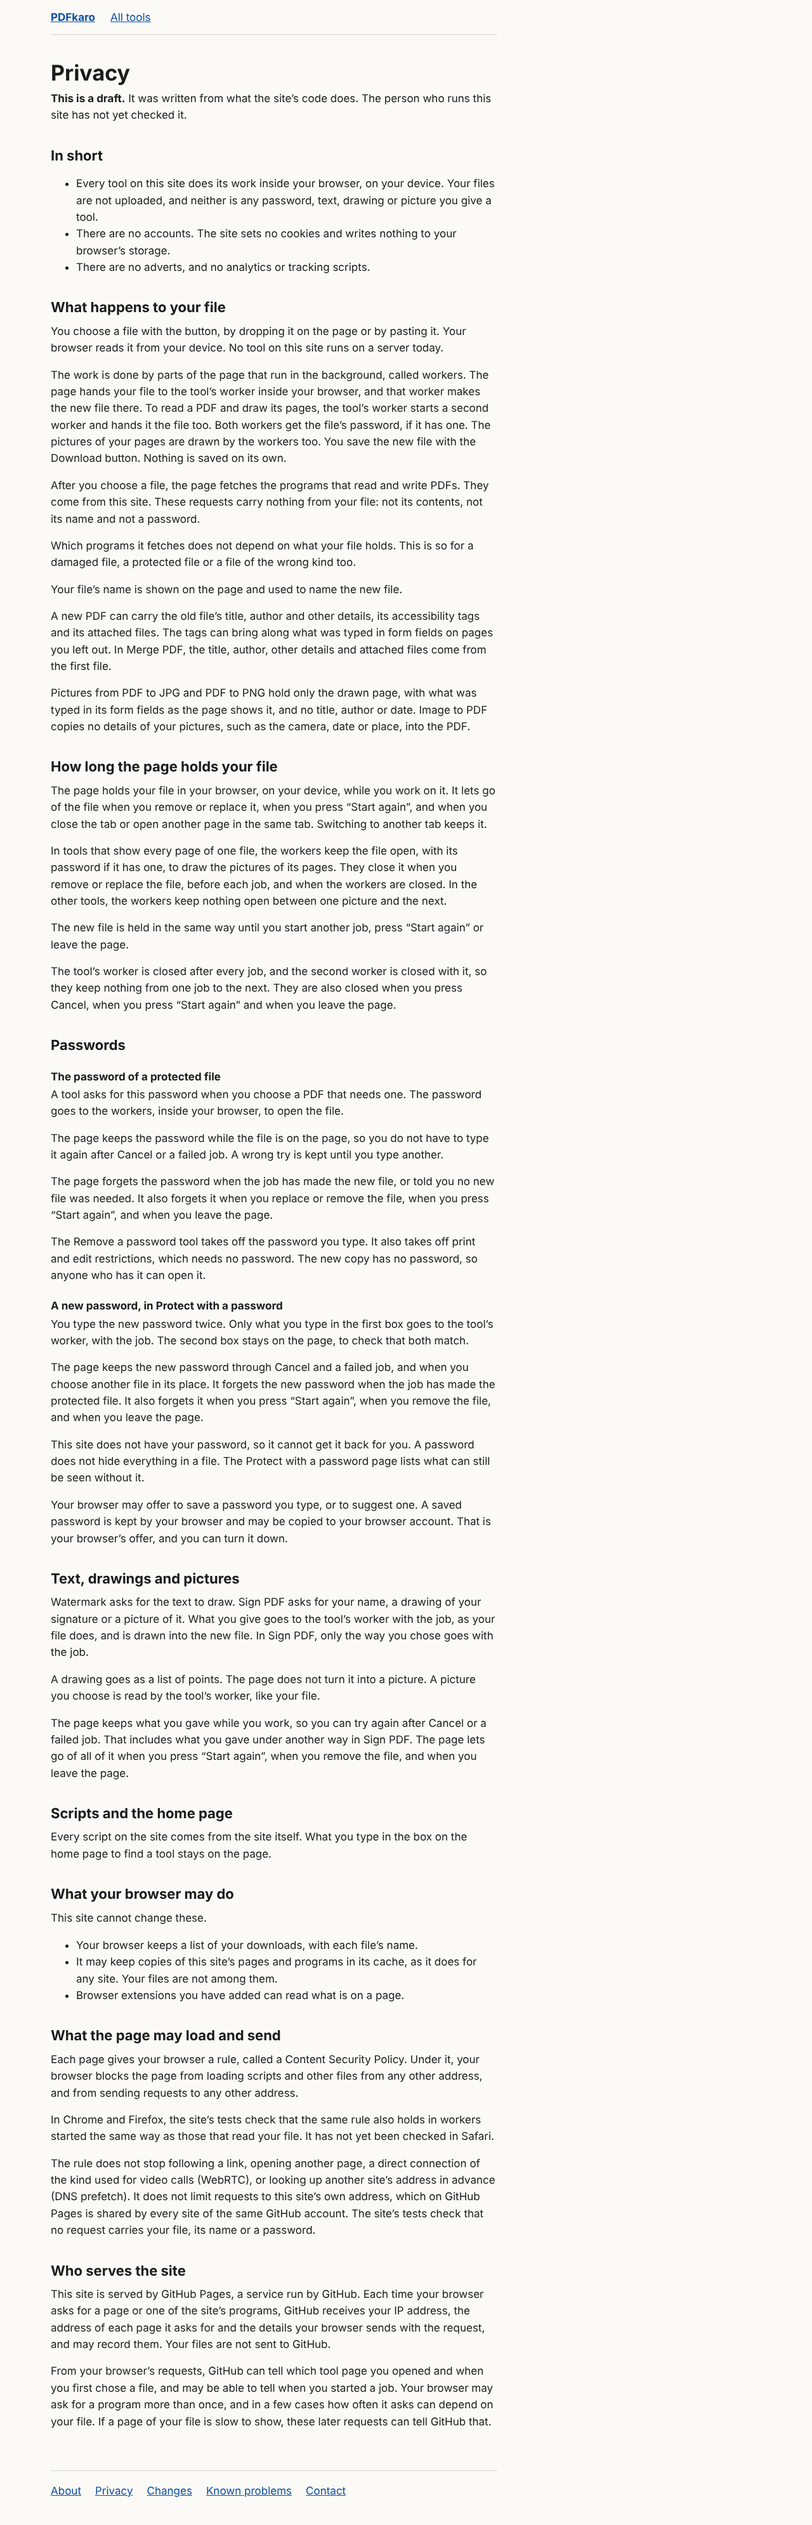
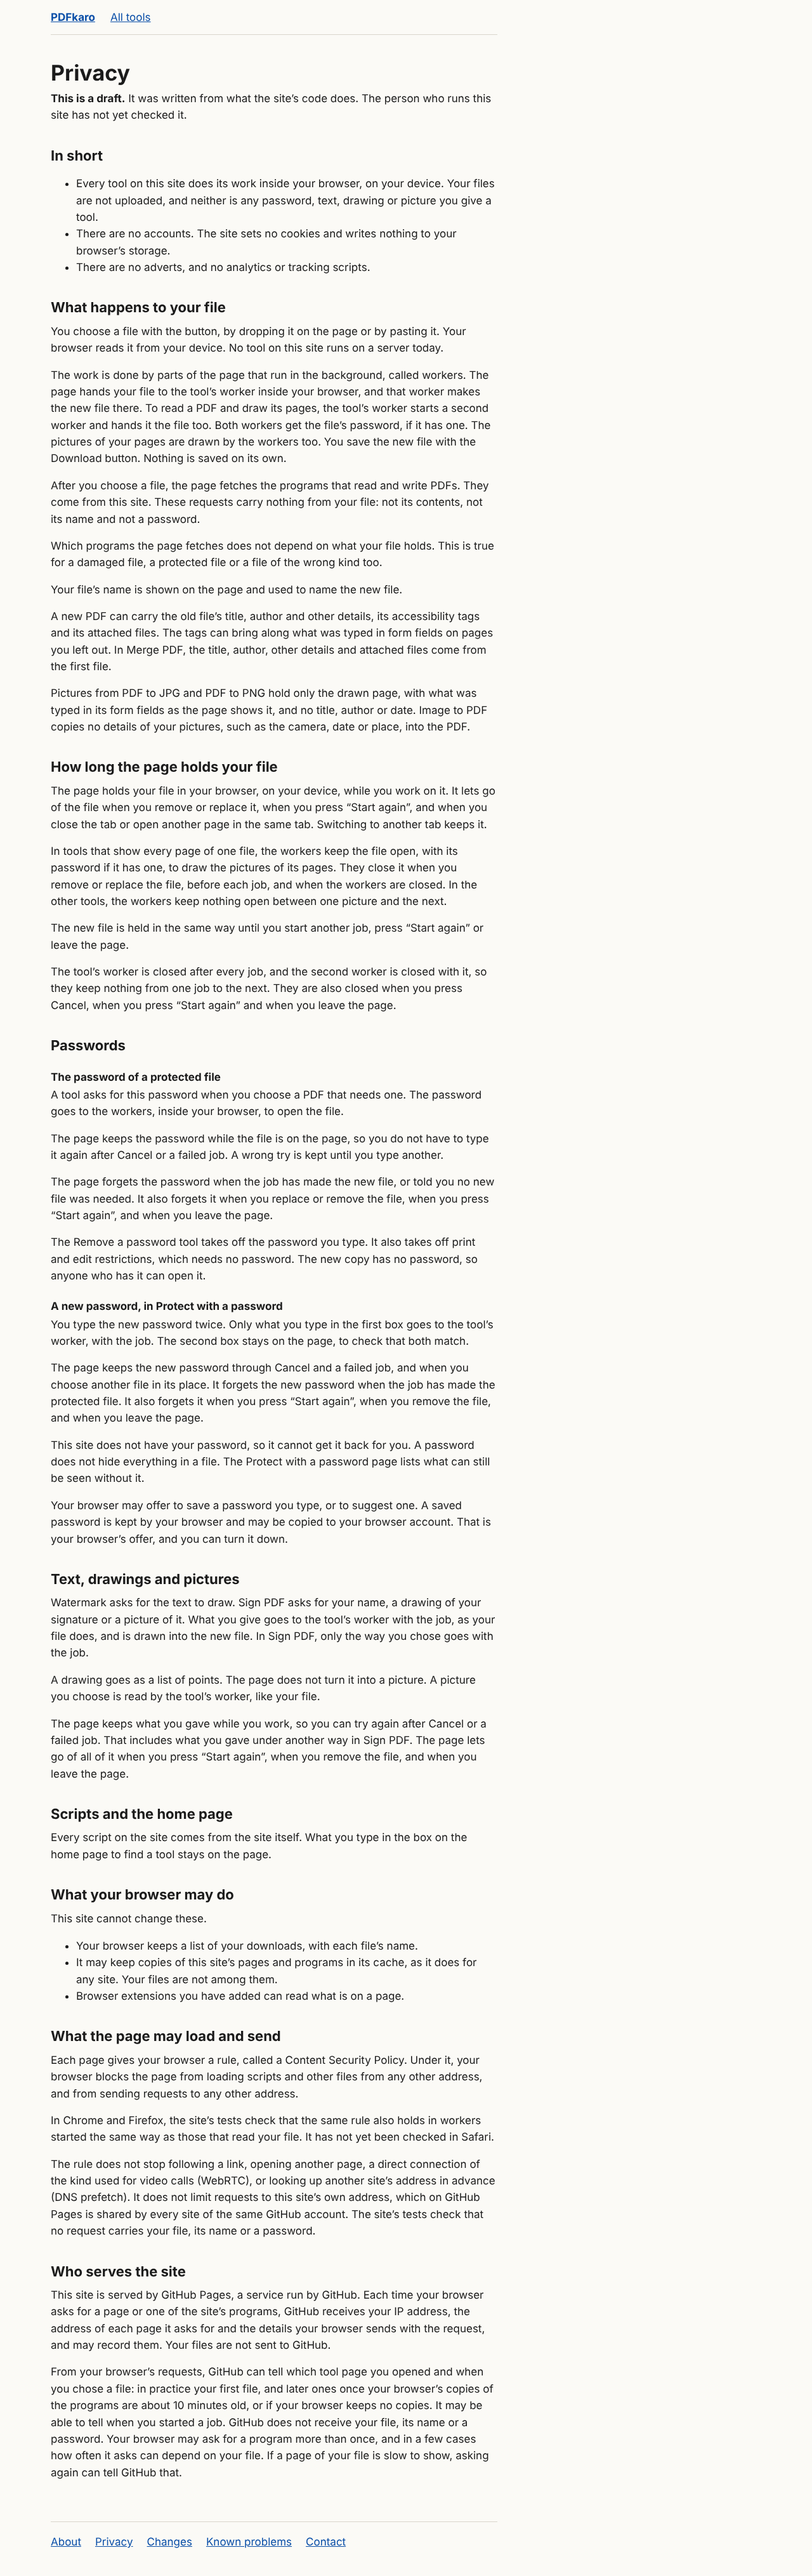
add-uniform-requests: Privacy screenshots with the stage 2 words; stage 2 tasks ticked
Claude-Session: https://claude.ai/code/session_01Ht5n4xeEVAutobXrc7qGtN

Changed region(s): [[0.0625, 0.0, 0.5938, 0.9658]]

diff --git a/openspec/changes/add-uniform-requests/tasks.md b/openspec/changes/add-uniform-requests/tasks.md
@@ -140,19 +140,19 @@
 
 ## 10. Stage 2 fixes
 
-- [ ] 10.1 (code) `stopThumbnail`: when a drop comes back too late, forget any drawing started meanwhile before ending the worker, then nudge the queue. Named in Risks (no test can hit the window on purpose).
-- [ ] 10.2 (privacy M1) No hold ever ends a worker: a thumbnail past the hold is dropped by message; `retireWhenSettled` for a replaced picture; a reading failure retires the worker; the wrong-kind wait retires it and a module list in `useToolRun.ts` ends it on settle, `pagehide` or the next pick. Verify with short holds in `client.test.ts` and `worker-core.test.ts`, and that the visitor's end still ends every worker.
-- [ ] 10.3 (privacy M2, UX) The Privacy sentences of decision 12 as reworded; `issue-7-comment.md` to match.
-- [ ] 10.4 (code, architect) `settleHoldMs` once, in `messages.ts`; `ToolClient.prepare(holdMs)`; no timer of the hook's own.
-- [ ] 10.5 (code) `pdfjs-loader`: PDF.js's worker ended when it failed after "ready" and before the import resolved.
-- [ ] 10.6 (code) A refused library maps to `engine-load` in a read and a picture read even when the engine catches it.
-- [ ] 10.7 (privacy S1) `uniform-requests.spec.ts`: nothing between phases or after the last; a pick phase is read only after its visible outcome.
-- [ ] 10.8 (privacy S2) The comparison and gap logic in `tests/e2e/request-record.ts`, with a unit test on a recorded log that must report `/compress-pdf`.
-- [ ] 10.9 (privacy S3) Inputs picked as buffers under unique long names, so every stem is a secret; the six-letter rule goes.
-- [ ] 10.10 (architect 1) `engine-loads`: the option table covers exactly the engines; each engine gives a file for at least one fixture.
-- [ ] 10.11 (architect 3) `tool-files.ts` reads the engines from `src/engines/tools/` by dynamic import; engine-loads shards by index.
-- [ ] 10.12 (architect 4) `check:worker` reads `thumbnails` allowing a type, and fails on a form it does not know.
-- [ ] 10.13 (security) The gated `tools` is not thenable.
+- [x] 10.1 (code) `stopThumbnail`: when a drop comes back too late, forget any drawing started meanwhile before ending the worker, then nudge the queue. Named in Risks (no test can hit the window on purpose).
+- [x] 10.2 (privacy M1) No hold ever ends a worker: a thumbnail past the hold is dropped by message; `retireWhenSettled` for a replaced picture; a reading failure retires the worker; the wrong-kind wait retires it and a module list in `useToolRun.ts` ends it on settle, `pagehide` or the next pick. Verify with short holds in `client.test.ts` and `worker-core.test.ts`, and that the visitor's end still ends every worker.
+- [x] 10.3 (privacy M2, UX) The Privacy sentences of decision 12 as reworded; `issue-7-comment.md` to match.
+- [x] 10.4 (code, architect) `settleHoldMs` once, in `messages.ts`; `ToolClient.prepare(holdMs)`; no timer of the hook's own.
+- [x] 10.5 (code) `pdfjs-loader`: PDF.js's worker ended when it failed after "ready" and before the import resolved.
+- [x] 10.6 (code) A refused library maps to `engine-load` in a read and a picture read even when the engine catches it.
+- [x] 10.7 (privacy S1) `uniform-requests.spec.ts`: nothing between phases or after the last; a pick phase is read only after its visible outcome.
+- [x] 10.8 (privacy S2) The comparison and gap logic in `tests/e2e/request-record.ts`, with a unit test on a recorded log that must report `/compress-pdf`.
+- [x] 10.9 (privacy S3) Inputs picked as buffers under unique long names, so every stem is a secret; the six-letter rule goes.
+- [x] 10.10 (architect 1) `engine-loads`: the option table covers exactly the engines; each engine gives a file for at least one fixture.
+- [x] 10.11 (architect 3) `tool-files.ts` reads the engines from `src/engines/tools/` by dynamic import; engine-loads shards by index.
+- [x] 10.12 (architect 4) `check:worker` reads `thumbnails` allowing a type, and fails on a form it does not know.
+- [x] 10.13 (security) The gated `tools` is not thenable.
 - [ ] 10.14 Re-run every check and the full end-to-end suite on both projects.
 
 ## Workflow follow-up
